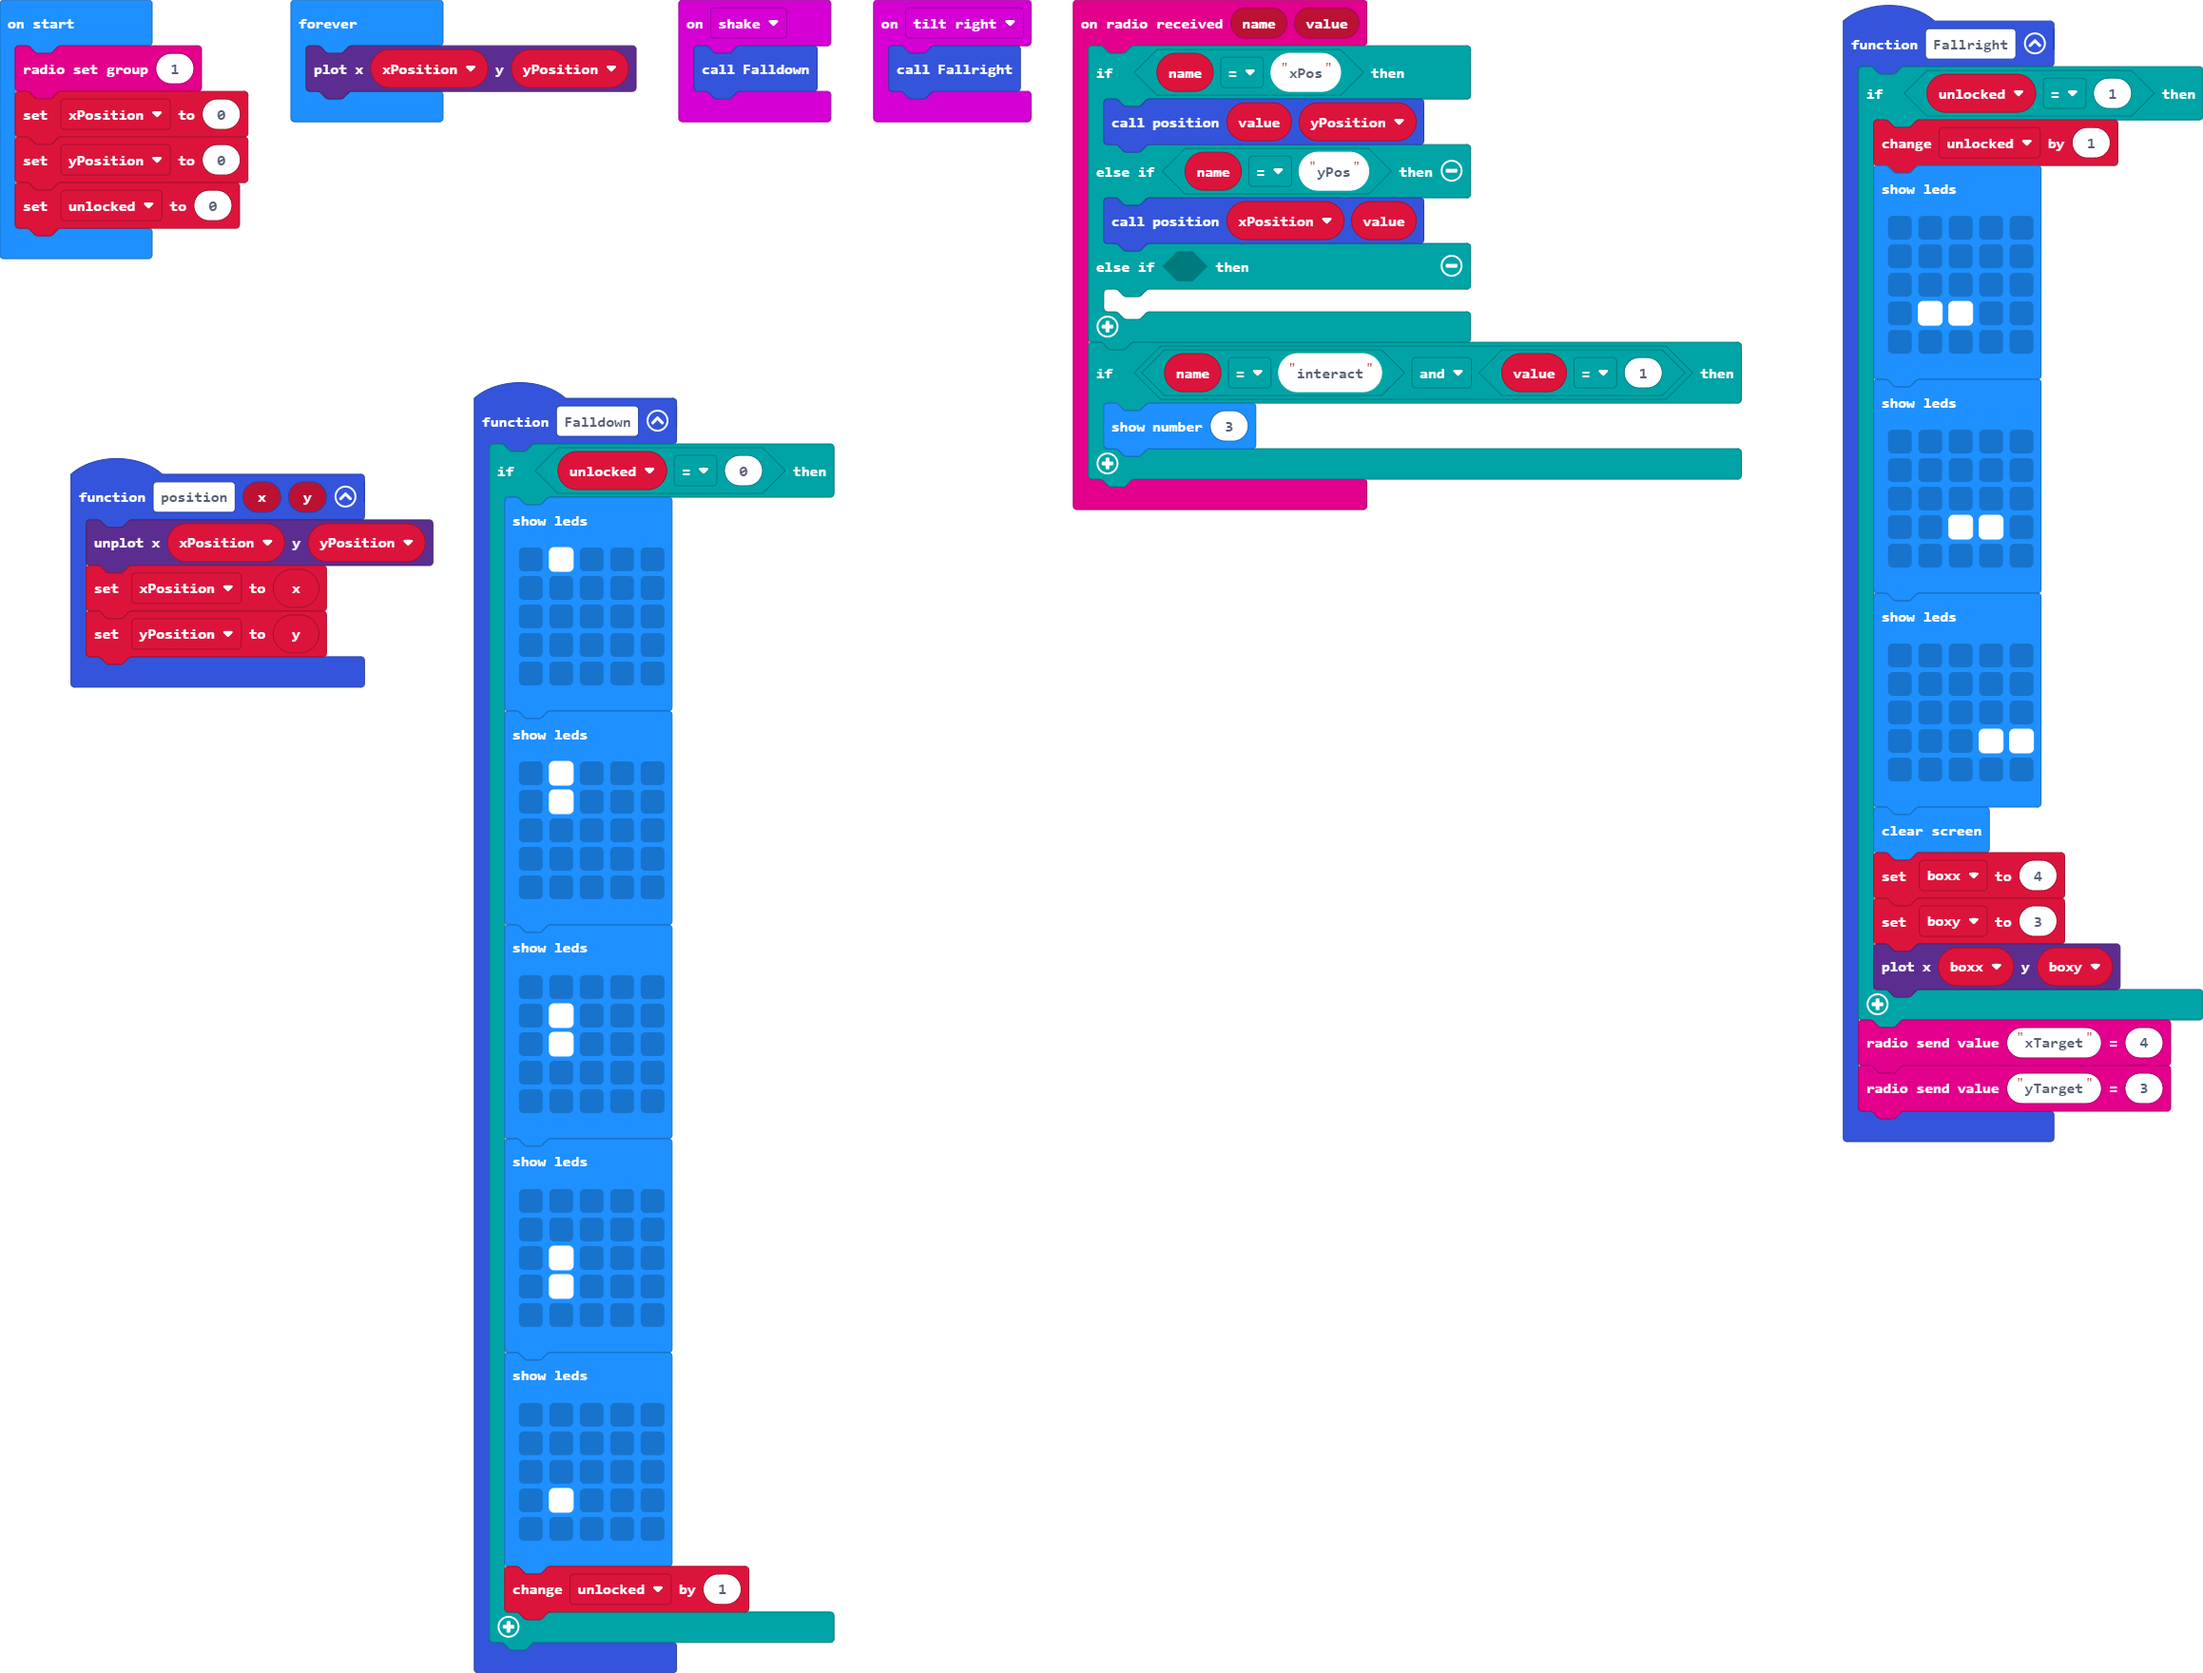
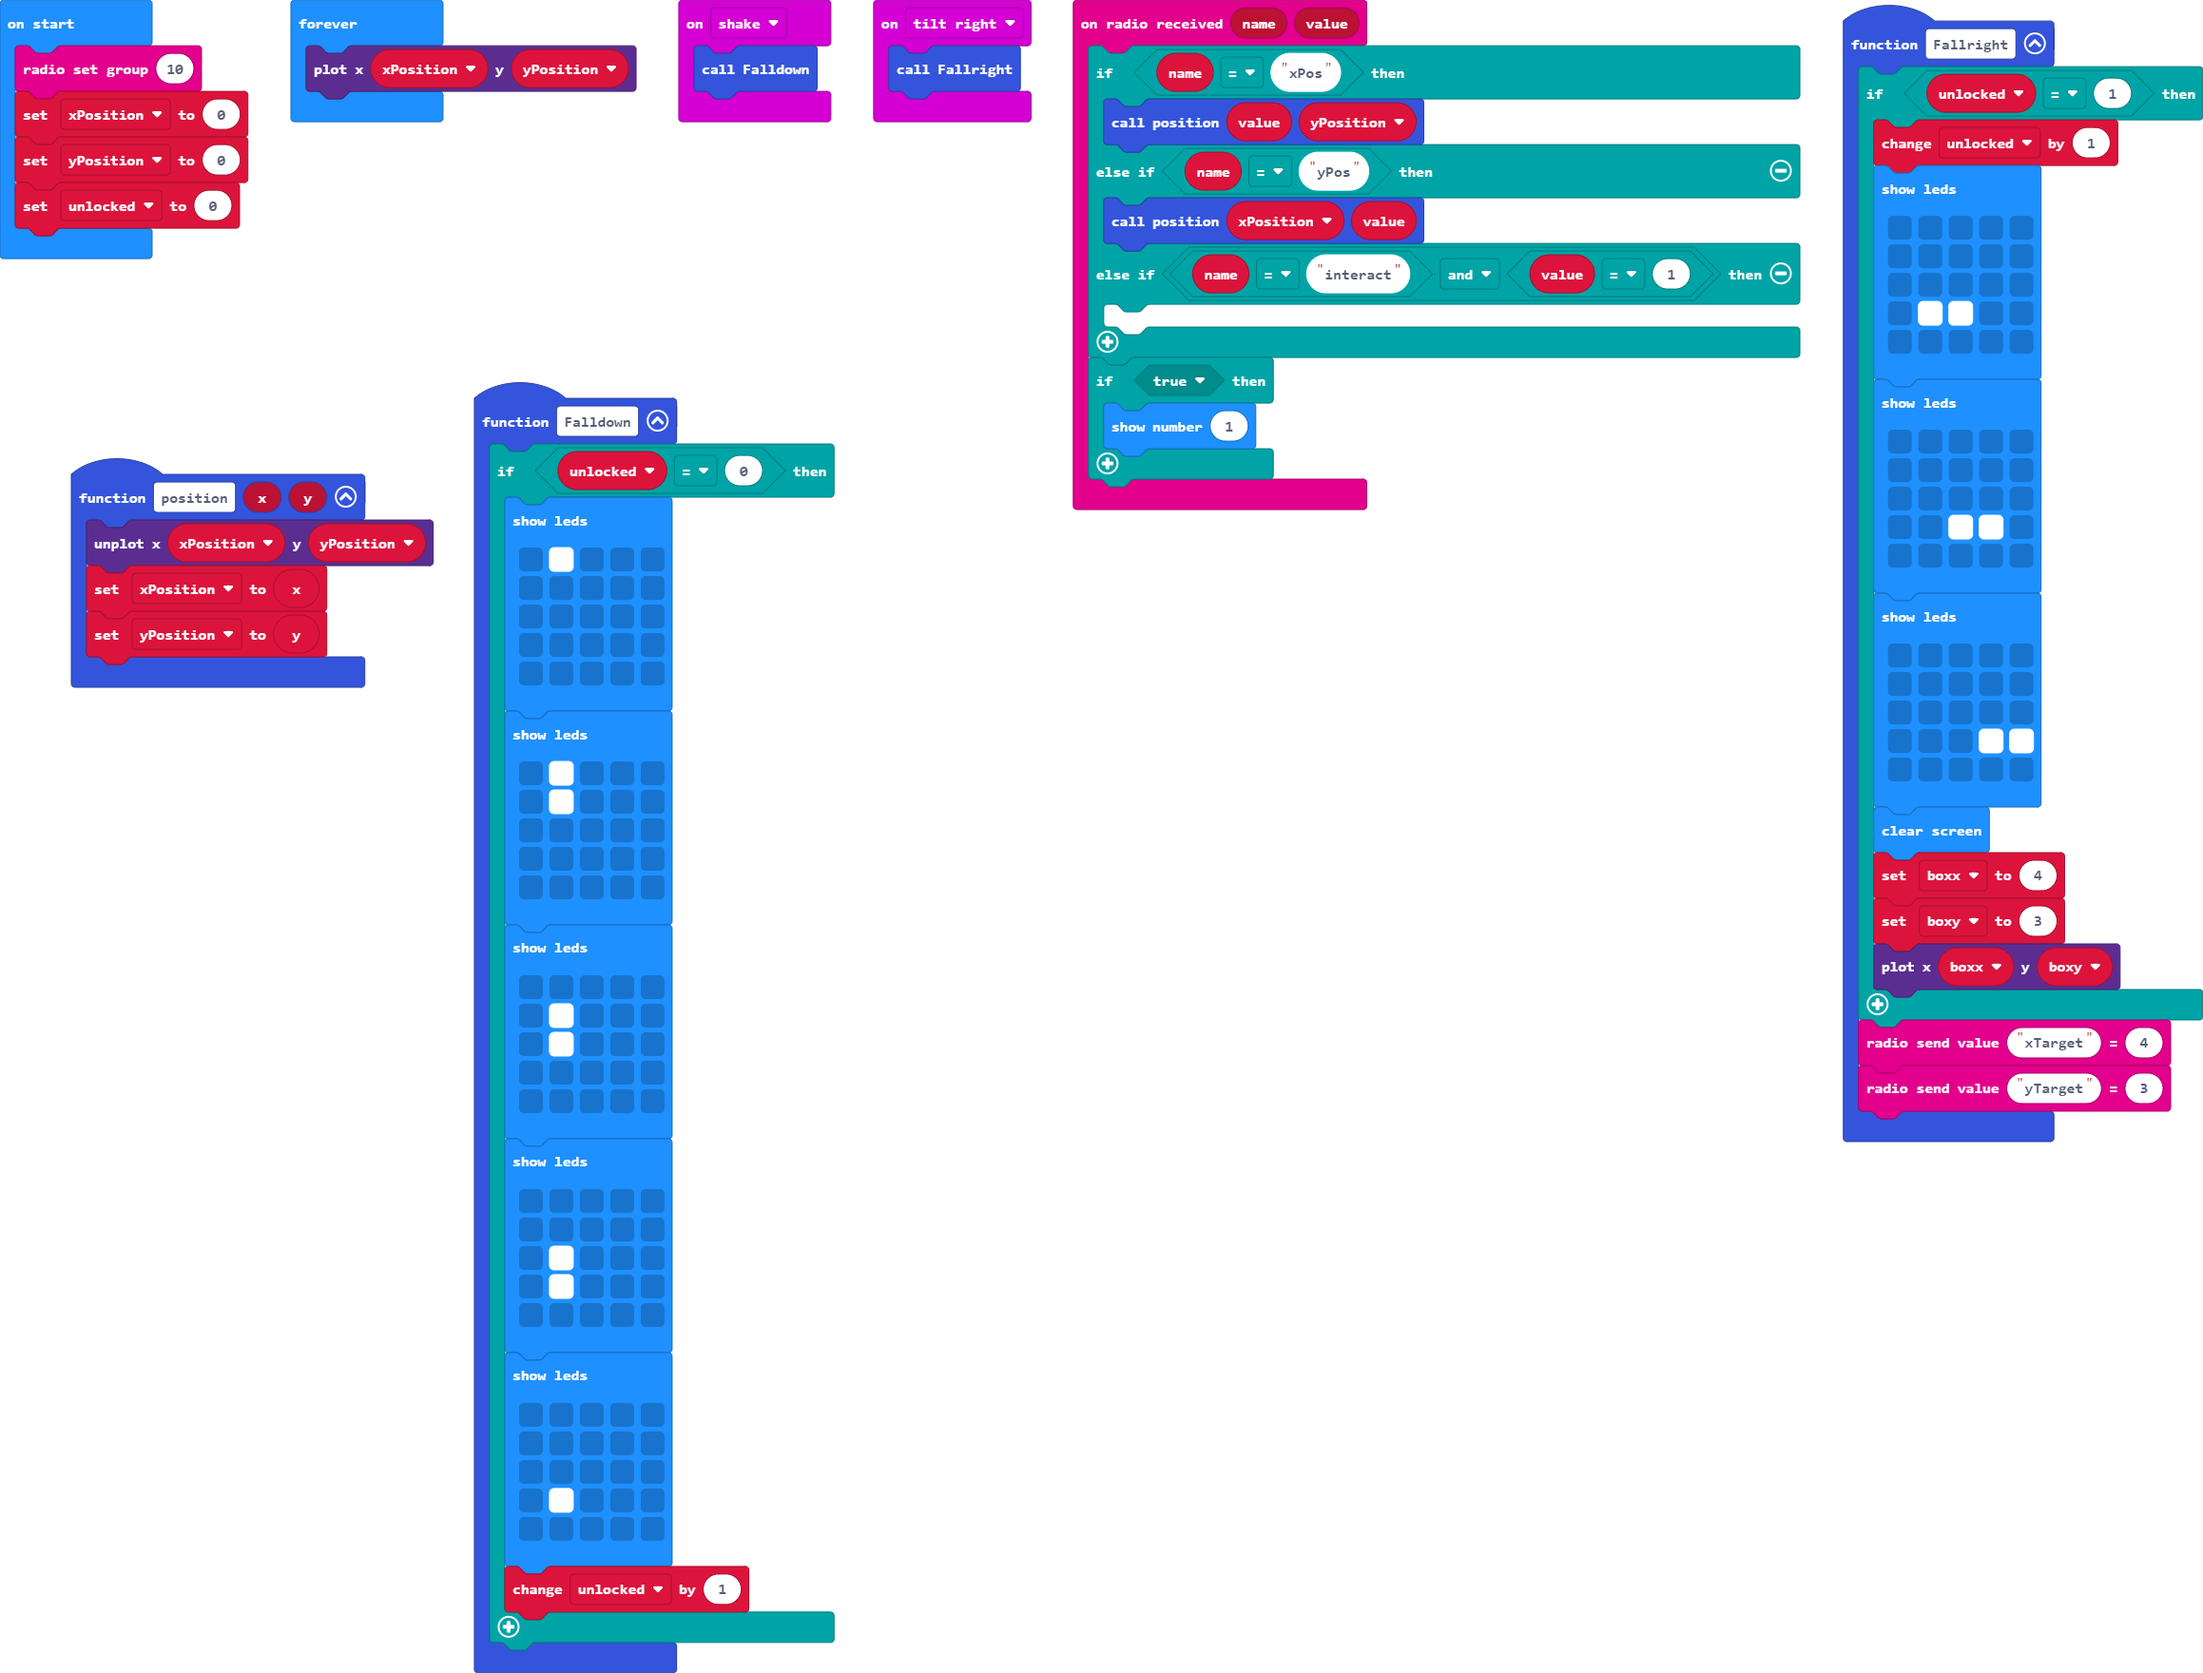
Update main.blocks, main.ts

Changed region(s): [[0.4972, 0.0, 0.839, 0.3125], [0.0621, 0.375, 0.0932, 0.4062], [0.0621, 0.2812, 0.0932, 0.3125]]

diff --git a/main.ts b/main.ts
@@ -86,11 +86,11 @@ radio.onReceivedValue(function (name, value) {
         position(value, yPosition)
     } else if (name == "yPos") {
         position(xPosition, value)
-    } else if (false) {
+    } else if (name == "interact" && value == 1) {
     	
     }
-    if (name == "interact" && value == 1) {
-        basic.showNumber(3)
+    if (true) {
+        basic.showNumber(1)
     }
 })
 let boxy = 0
@@ -98,7 +98,7 @@ let boxx = 0
 let unlocked = 0
 let yPosition = 0
 let xPosition = 0
-radio.setGroup(1)
+radio.setGroup(10)
 xPosition = 0
 yPosition = 0
 unlocked = 0
